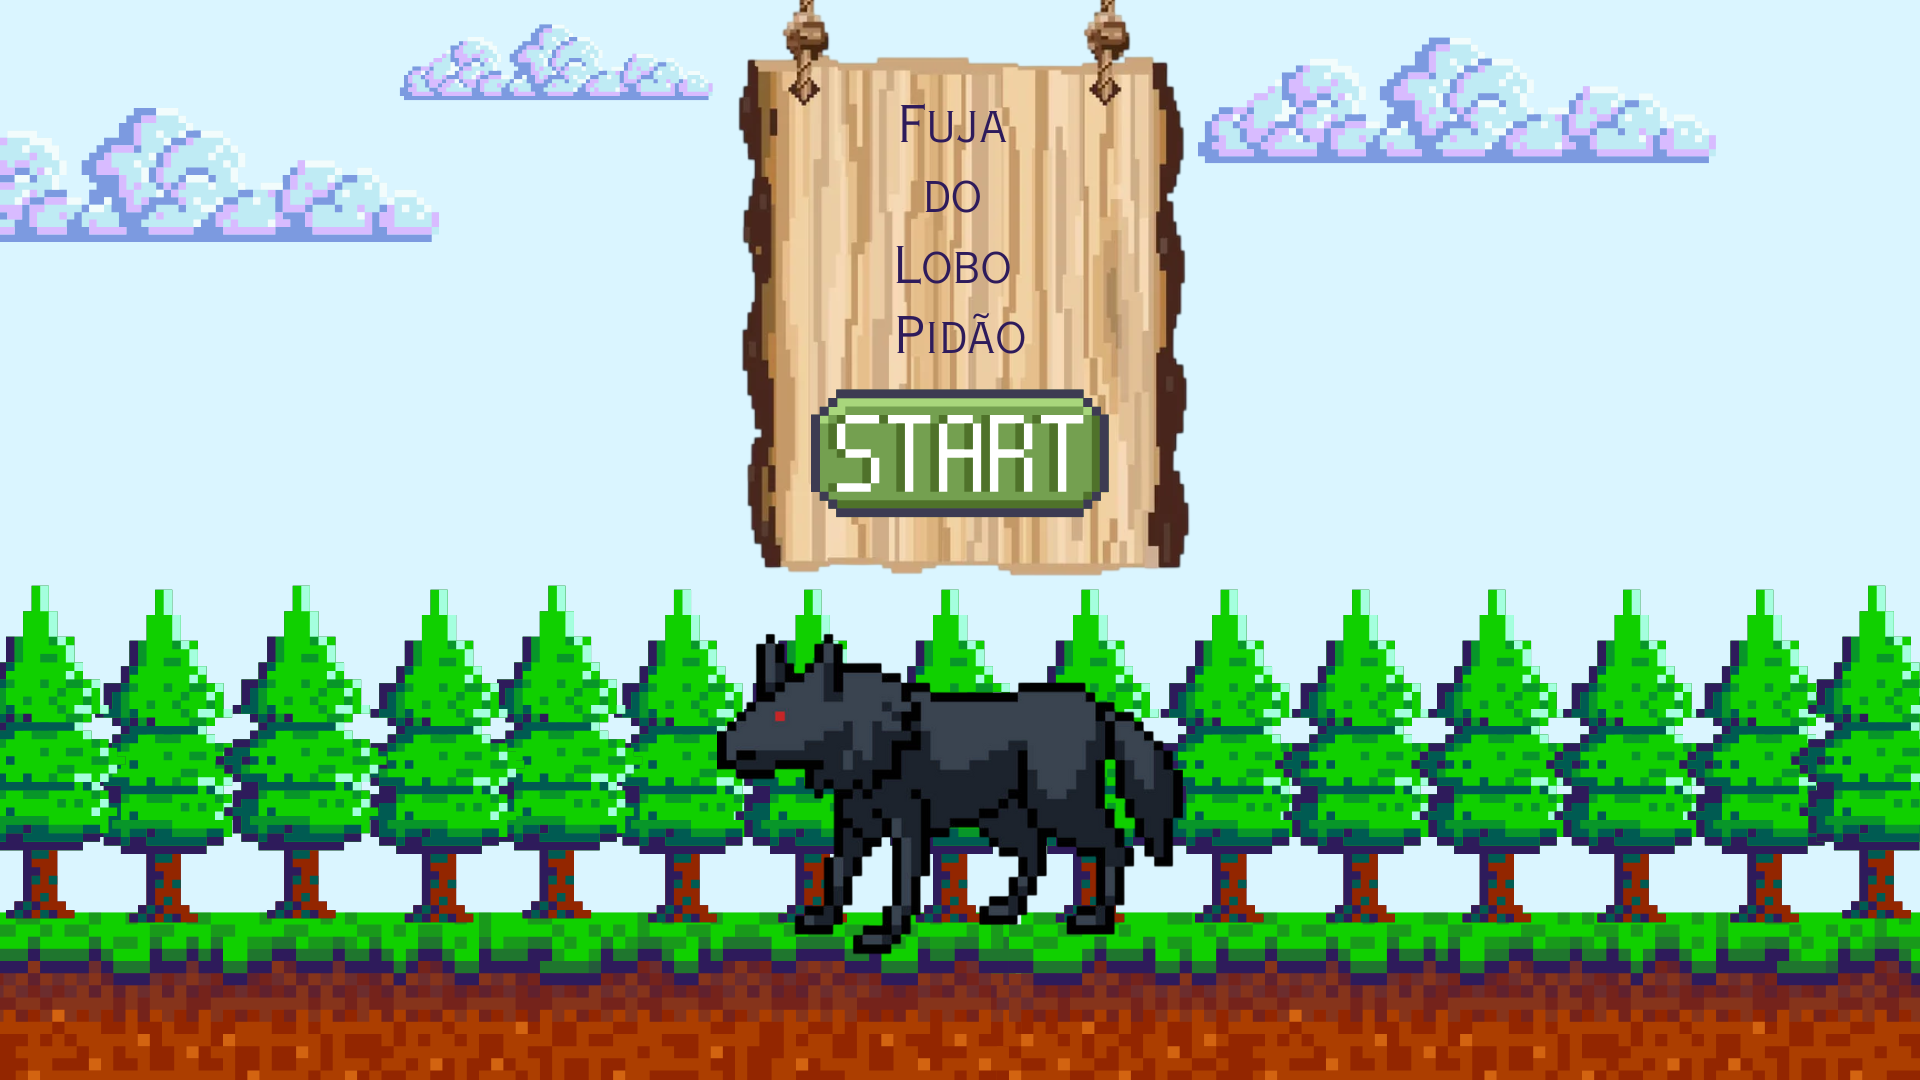
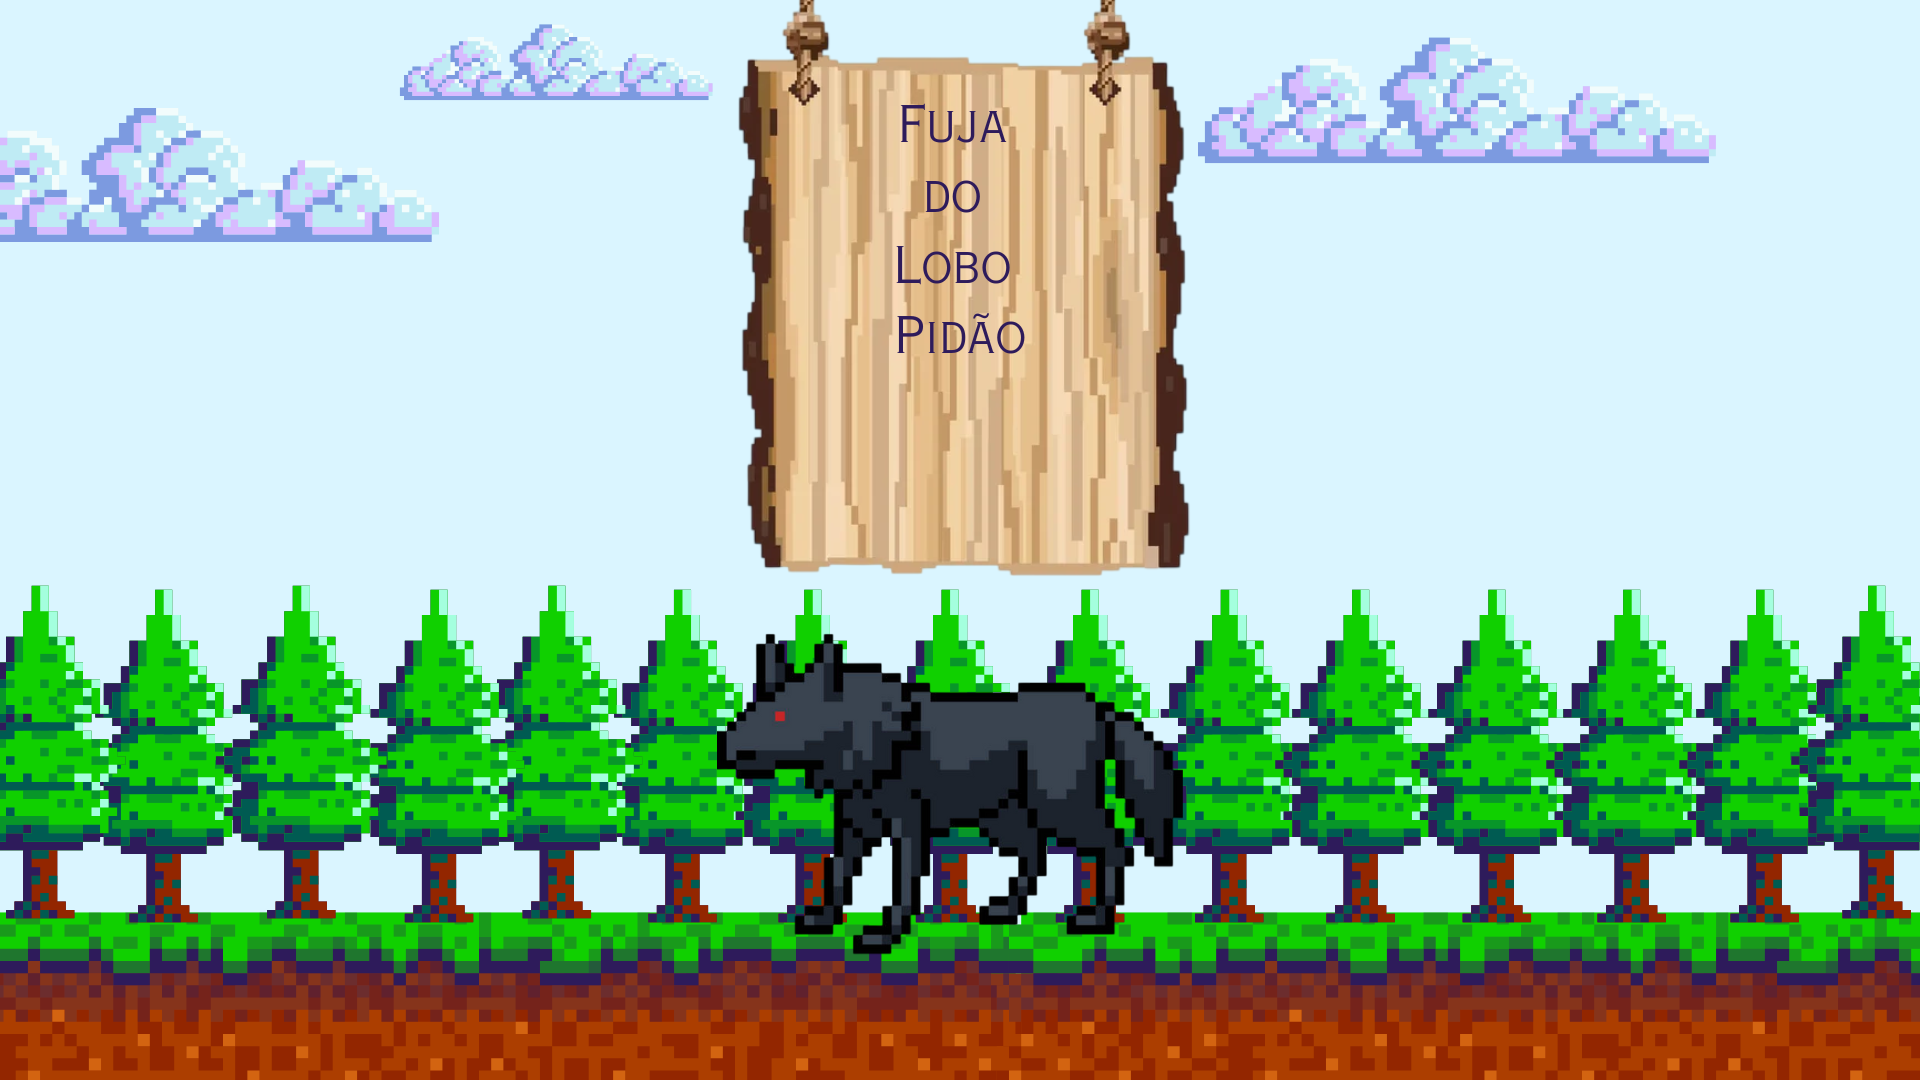
alteração nos butões da tela inicial

Changed region(s): [[0.4062, 0.3361, 0.5938, 0.4889]]

diff --git a/lobo.py b/lobo.py
@@ -16,7 +16,14 @@ y = 200
 background = pygame.image.load("start.png").convert()
 background = pygame.transform.scale(background, (1280, 720))
 
-start_rect = pygame.Rect(520, 260, 240, 80)            
+sair_rect  = pygame.Rect(520, 310, 240, 60)
+start_rect = pygame.Rect(520, 240, 240, 60)
+fonte = pygame.font.SysFont(None, 60)
+
+COR_BOTAO = (70, 130, 180)
+COR_HOVER = (100, 160, 210)
+COR_TEXTO = (255, 255, 255)
+
 
 while running:
     for event in pygame.event.get():
@@ -27,24 +34,53 @@ while running:
             if event.button == 1:  
                 if start_rect.collidepoint(event.pos):
                  estado="jogo"
+                if sair_rect.collidepoint(event.pos):
+                 running = False
+    if estado == "menu":
+       screen.blit(background, (0, 0))
+       mouse_pos = pygame.mouse.get_pos()
 
-        if estado == "menu":
-           screen.blit(background, (0, 0))
+       if start_rect.collidepoint(mouse_pos):
+         pygame.draw.rect(screen, COR_HOVER, start_rect, border_radius=12)
+       else:
+         pygame.draw.rect(screen, COR_BOTAO, start_rect, border_radius=12)
 
-        elif estado == "jogo":
-          screen.fill((255, 255, 255))
-          screen.blit(quadrado, (x, y))
-        pygame.display.flip()
+         texto = fonte.render("START", True, COR_TEXTO)
+         texto_rect = texto.get_rect(center=start_rect.center)
+         screen.blit(texto, texto_rect)
+         
+       if sair_rect.collidepoint(mouse_pos):
+         pygame.draw.rect(screen, COR_HOVER, sair_rect, border_radius=12)
+       else:
+         pygame.draw.rect(screen, COR_BOTAO, sair_rect, border_radius=12)
+
+         texto_sair = fonte.render("SAIR", True, COR_TEXTO)
+         screen.blit(texto_sair, texto_sair.get_rect(center=sair_rect.center))
+
+    elif estado == "jogo":
+       screen.fill((0, 150, 0))
+       screen.blit(quadrado, (x, y))
+    pygame.display.flip()
     teclas = pygame.key.get_pressed() # Para capturar o pressionamento das teclas de forma contínua
-    if teclas[pygame.K_LEFT]:   # tecla direcional esquerda está sendo pressionada?
-      x = x - velocidade
-    if teclas[pygame.K_RIGHT]:  # tecla direcional direita está sendo pressionada?
-      x = x + velocidade
-    if teclas[pygame.K_UP]:
-      y = y - velocidade 
-    if teclas[pygame.K_DOWN]:
-       y = y + velocidade      
+    if estado == "jogo":
+       if teclas[pygame.K_LEFT]:   # tecla direcional esquerda está sendo pressionada?
+         x = x - velocidade
+       if teclas[pygame.K_RIGHT]:  # tecla direcional direita está sendo pressionada?
+         x = x + velocidade
+       if teclas[pygame.K_UP]:
+         y = y - velocidade 
+       if teclas[pygame.K_DOWN]:
+         y = y + velocidade 
+       if x < 0:
+         x = 0
+       if x > 1280 - 30:
+         x = 1280 - 30
+
+       if y < 0:
+         y = 0
+       if y > 720 - 30:
+         y = 720 - 30       
      
-clock.tick(60)
+    clock.tick(60)
 
 pygame.quit()
